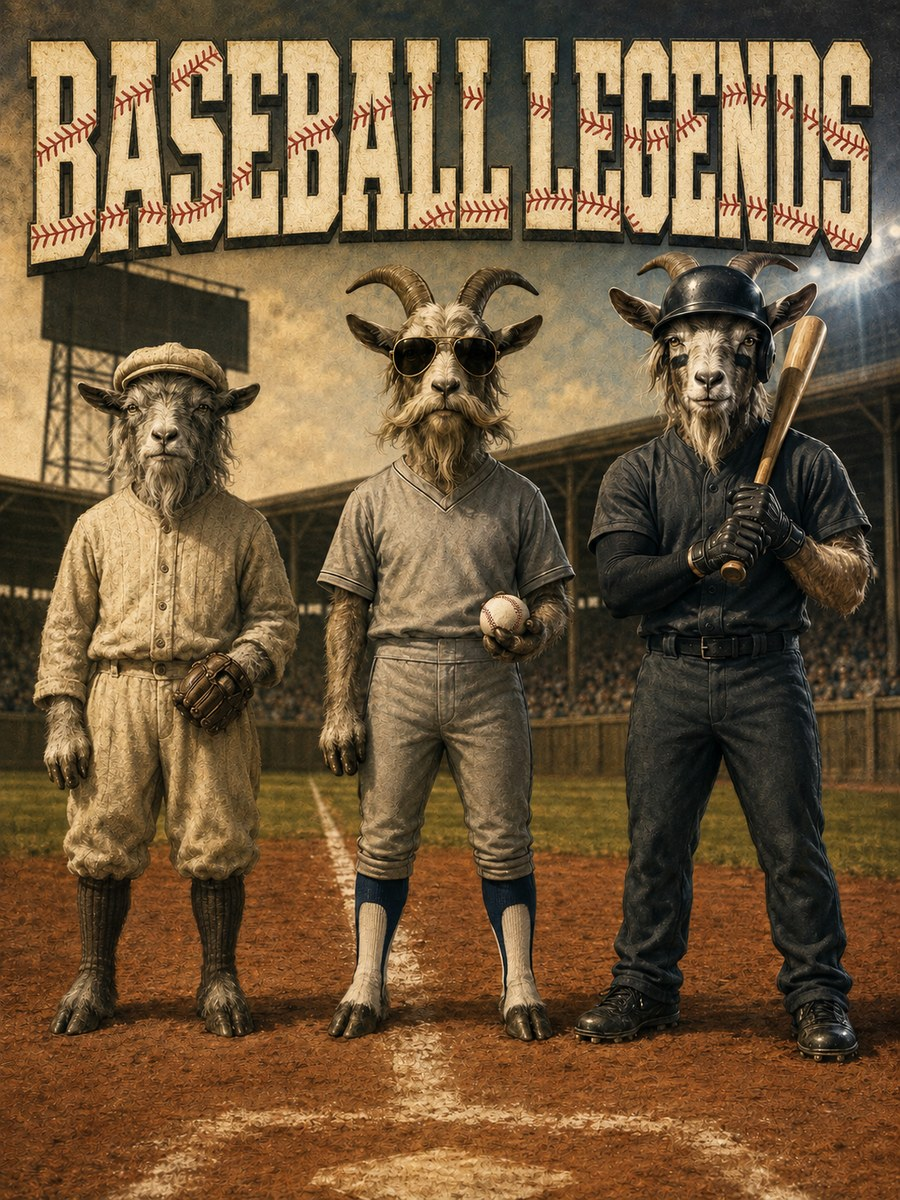
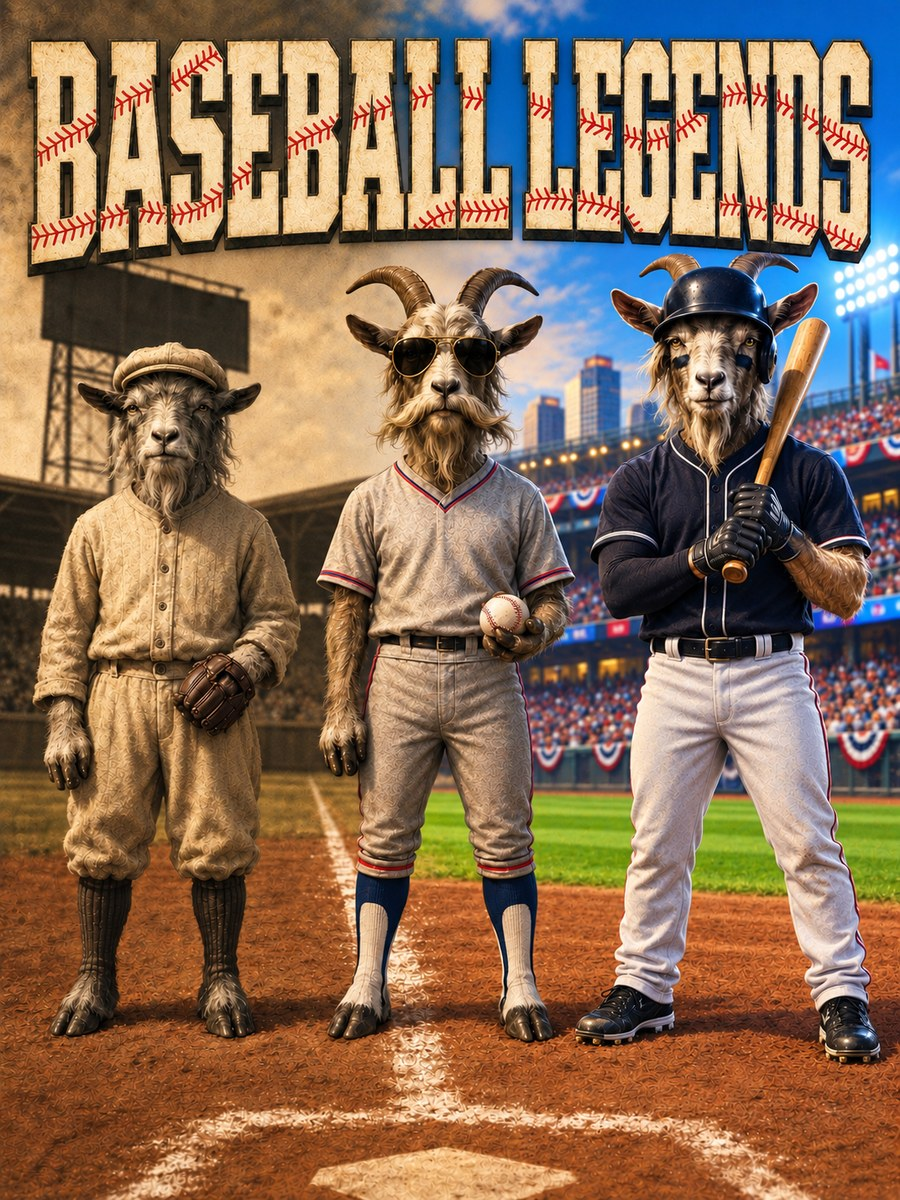
v282: Baseball Legends - colour restored, second swoosh removed
Same fix football got in v279. The old plate measured 0.028 hue spread with 0%
colour outside the orange-brown band; it only escaped notice because it was the
brightest of the four and read airy rather than muddy.

  saturation  0.366 -> 0.477
  hue spread  0.028 -> 0.203   (now second only to hockey's 0.269)
  value       0.445 -> 0.585   (brightest in the set)
  colour outside orange-brown  0% -> 13%  (blue sky, green outfield)

All four posters now carry real colour. Ranking on hue spread:
hockey 0.269, baseball 0.203, football 0.161, basketball 0.136.

A Nike swoosh came through on the modern goat's batting glove cuff - the second
in the set after football v2's hip. Cloned out with luminance-matched cuff.
Every poster in the set has now had one or been checked for one.

Title is still on one line and remains the weakest of the four at 78px.

Claude-Session: https://claude.ai/code/session_012avjdYG8yRCMZ3uJswRWwC

diff --git a/index.html b/index.html
@@ -942,7 +942,7 @@ function eraOf(v){ return ERA[v.id]||'neon'; }
    nothing else needs touching: it cache-busts card-*.jpg and art-*.jpg, and it renders
    the buildtag in the corner. It sat at v258 for 22 releases because it was one of three
    separate hardcoded tokens - the tag showed v258, the card plates served v258 bytes. */
-var SFSBUILD='v281';
+var SFSBUILD='v282';
 var CARDART={"adele":{"o":"#F4A330"},"arianagrande":{"o":"#FFF6E0","l":1},"ate":{"o":"#DAA459"},"beatles":{"o":"#FFF6E0","l":1},"beyonce":{"o":"#FDB728"},"biggie":{"o":"#FDC472"},"billieeilish":{"o":"#B9C709"},"billyjoel":{"o":"#DBB17D"},"bonjovi":{"o":"#FFF6E0","l":1},"bowie":{"o":"#F7AF7C"},"brunomars":{"o":"#FEA928"},"carrieunderwood":{"o":"#D9B87A"},"ccr":{"o":"#F2C772"},"chrisstapleton":{"o":"#F2BA7D"},"codyjohnson":{"o":"#85C9EB"},"coldplay":{"o":"#E9BA87"},"dmb":{"o":"#2A1305"},"dualipa":{"o":"#A3ABC1"},"eagles":{"o":"#261C12"},"edsheeran":{"o":"#ECAB84"},"ellalangley":{"o":"#F1987E"},"eminem":{"o":"#D1B99F"},"faithhill":{"o":"#F3A63D"},"fleetwoodmac":{"o":"#BEC5C8"},"foo":{"o":"#F69F6D"},"fthc":{"o":"#3D3717"},"gratefuldead":{"o":"#FFF6E0","l":1},"greenday":{"o":"#CEB799"},"grunge90s":{"o":"#EFC973"},"harrystyles":{"o":"#F99B37"},"hendrix":{"o":"#FFF6E0","l":1},"jasonaldean":{"o":"#EAAE5F"},"jellyroll":{"o":"#301407"},"justintimberlake":{"o":"#B1C1D3"},"katyperry":{"o":"#3DC2D8"},"kennychesney":{"o":"#F6C587"},"kidstoybox":{"o":"#002848"},"ladygaga":{"o":"#FFBD46"},"laineywilson":{"o":"#FFF6E0","l":1},"ledzeppelin":{"o":"#E6AE57"},"lukebryan":{"o":"#332818"},"lukecombs":{"o":"#F19F31"},"maroon5":{"o":"#642F09"},"metallica":{"o":"#EABE95"},"morganwallen":{"o":"#DB9D94"},"mv_action":{"o":"#F0AD51"},"mv_animated":{"o":"#FFF6E0","l":1},"mv_comedy":{"o":"#FFF6E0","l":1},"mv_crime":{"o":"#F0AF37"},"mv_drama":{"o":"#DCA969"},"mv_fantasy":{"o":"#FAAA41"},"mv_horror":{"o":"#DBC27D"},"mv_romance":{"o":"#FFF6E0","l":1},"mv_scifi":{"o":"#26BDF5"},"mv_sports":{"o":"#FFF6E0","l":1},"mv_superhero":{"o":"#1C1B26"},"mv_war":{"o":"#1F150C"},"nirvana":{"o":"#CACACB"},"oasis":{"o":"#DDBA92"},"onedirection":{"o":"#F4A62D"},"pearljam":{"o":"#FFF6E0","l":1},"postmalone":{"o":"#FBA874"},"queen":{"o":"#F1BE78"},"rhcp":{"o":"#FFF6E0","l":1},"rihanna":{"o":"#BBAB97"},"selenagomez":{"o":"#FFF6E0","l":1},"shaboozey":{"o":"#DEB177"},"smashingpumpkins":{"o":"#BCAEC2"},"springsteen":{"o":"#E6A59C"},"stones":{"o":"#FFF6E0","l":1},"stp":{"o":"#FFF6E0","l":1},"summerbeach":{"o":"#FFF6E0","l":1},"taylorswift":{"o":"#D4A26D"},"thewho":{"o":"#F0C382"},"timmcgraw":{"o":"#251C0A"},"tompetty":{"o":"#FFF6E0","l":1},"tv_binge":{"o":"#D9B87A"},"tv_cartoon":{"o":"#171F6C"},"tv_gameshow":{"o":"#000B4D"},"tv_growingup":{"o":"#86B6F7"},"tv_oldschool":{"o":"#D9B87A"},"tv_scifi":{"o":"#66BBF7"},"tv_sitcom":{"o":"#C8AE93"},"u2":{"o":"#7EC0F2"},"zachbryan":{"o":"#191F15"}};
 function coverHTML(v,label){
  var e=eraOf(v);

diff --git a/sw.js b/sw.js
@@ -1,4 +1,4 @@
-var CACHE='sfs-v281';
+var CACHE='sfs-v282';
 /* IMPORTANT: do NOT precache the HTML documents. If the app shell is cached, an installed PWA
    can launch straight from cache and bypass Cloudflare Access. Keeping only static assets here
    forces every page launch to hit the network, so the Access login is always enforced. */
